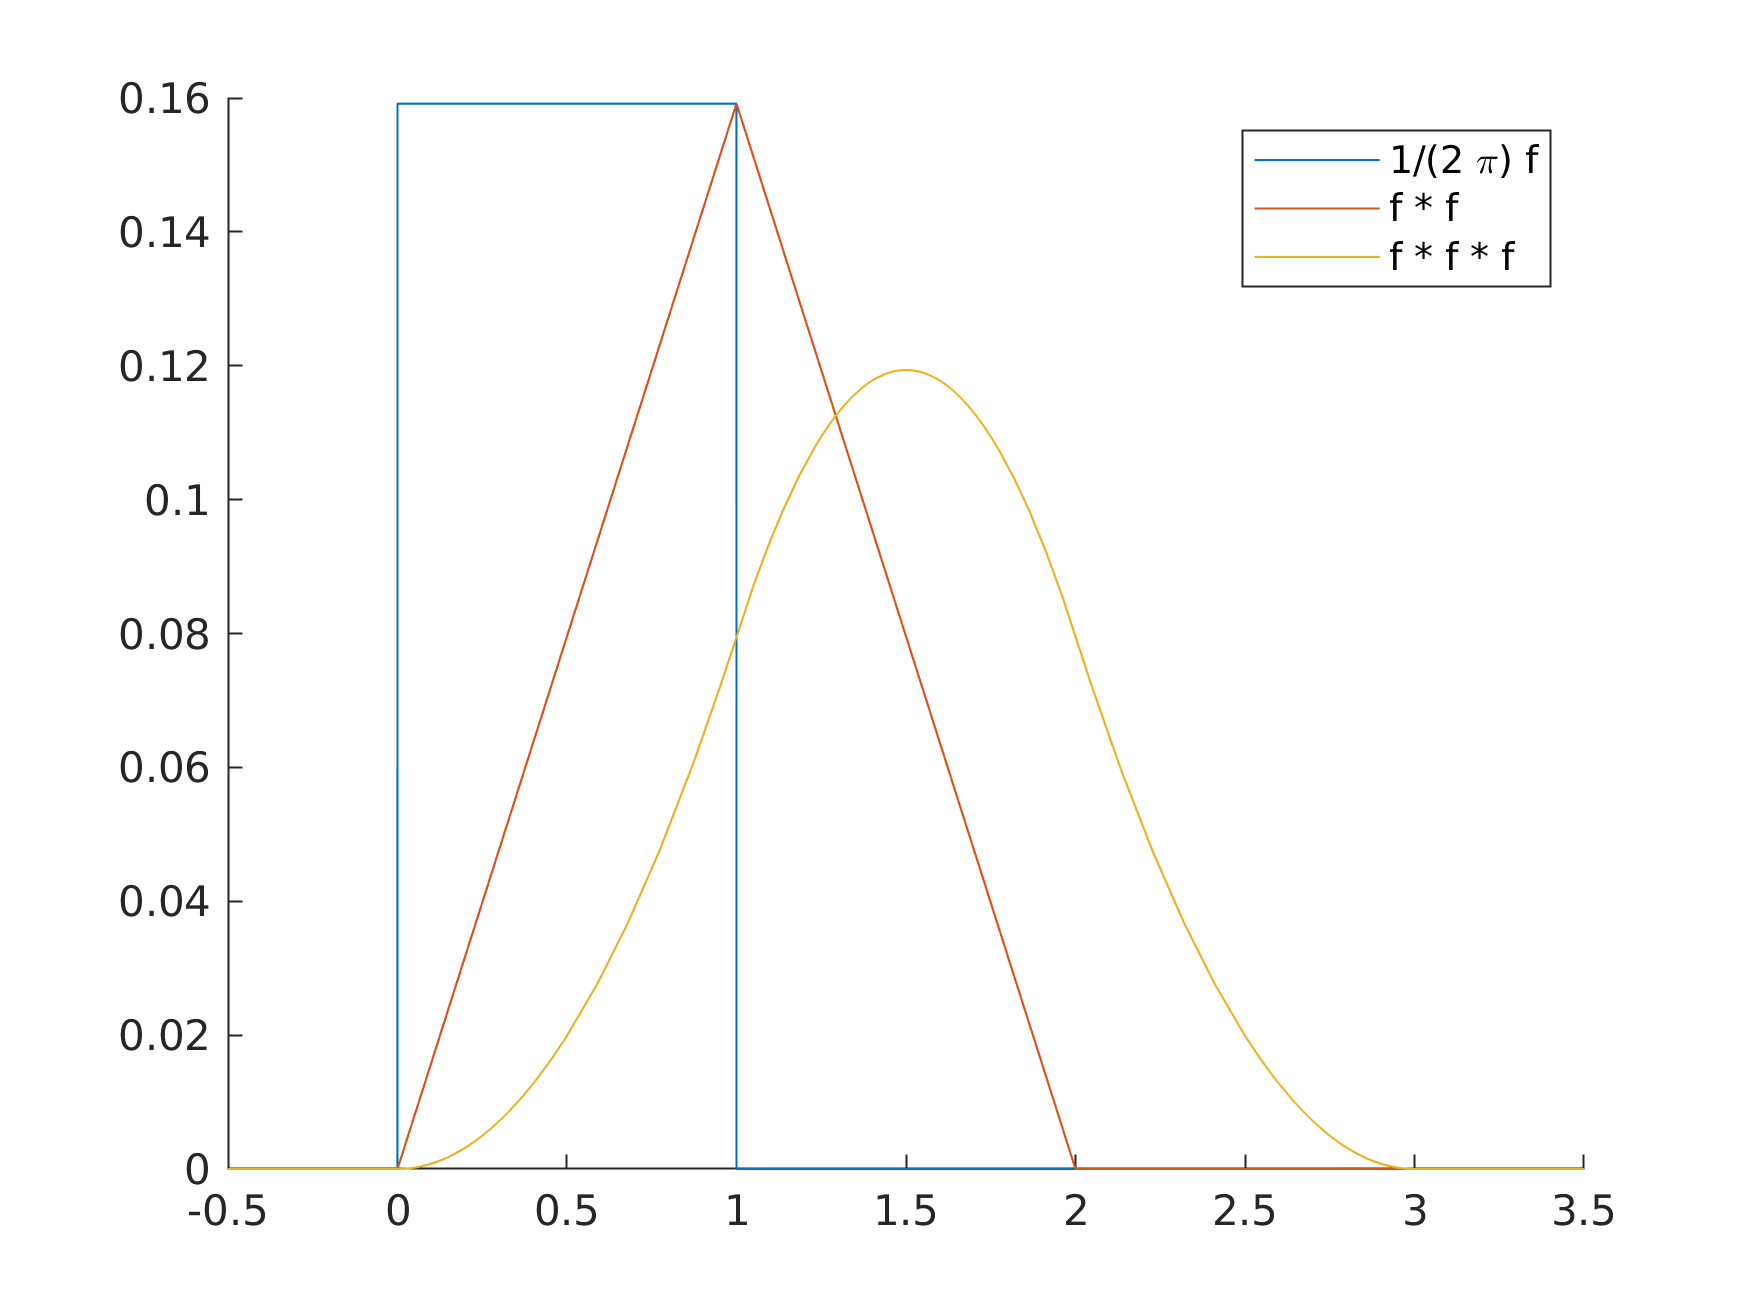
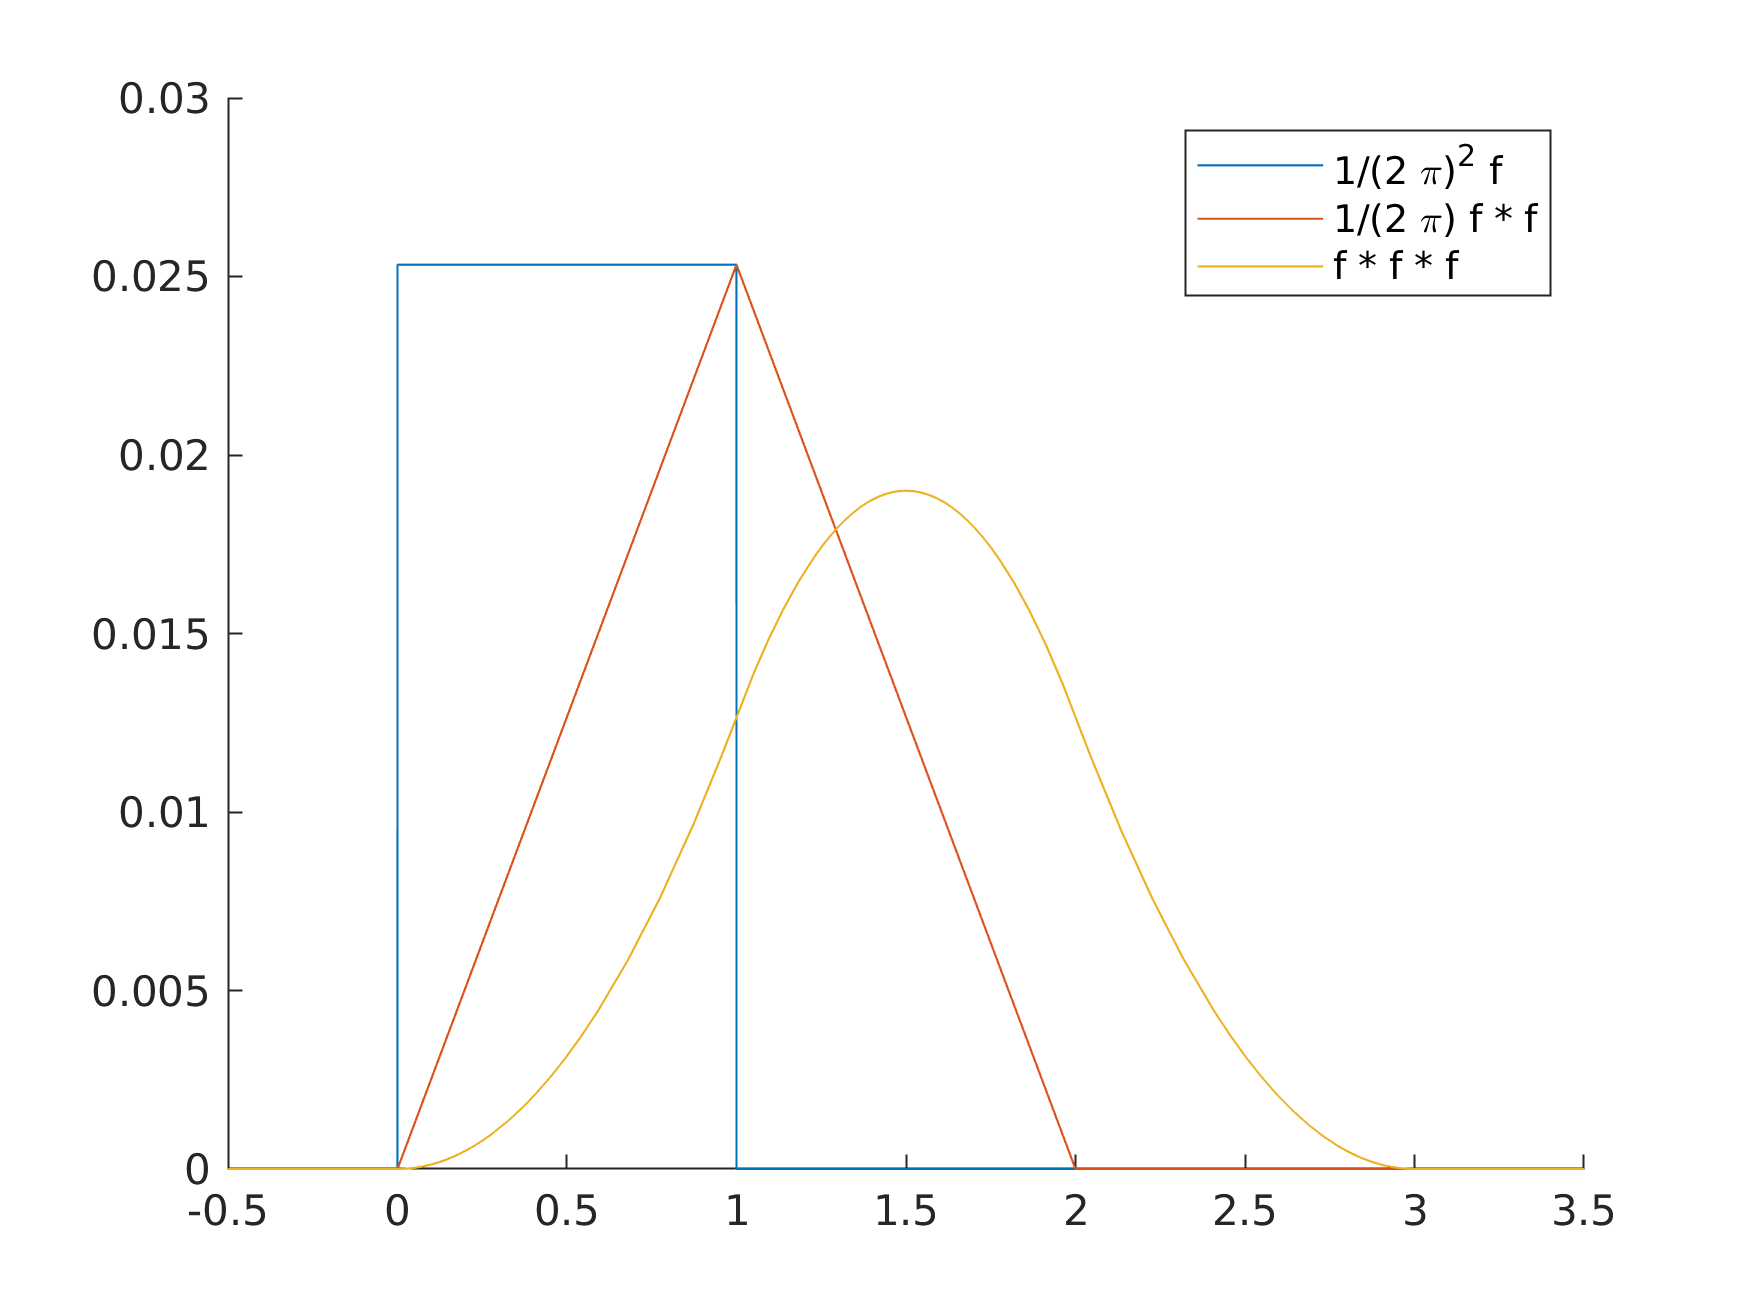
Fix errors in hw3

diff --git a/hw3/hw.tex b/hw3/hw.tex
@@ -79,10 +79,10 @@ $[0, 1] \cap [t - 1, t]$, so
 \begin{align*}
     (f * f)(t)
         &= \frac{1}{2 \pi} \int_{[0, 1] \cap [t - 1, t]} \dif y \\
-        &= \frac{1}{2 \pi} \cdot
+        &=
         \begin{dcases}
-            t, & 0 \leq t \leq 1 \\
-            2 - t, & 1 < t \leq 2 \\
+            \frac{1}{2 \pi}t, & 0 \leq t \leq 1 \\
+            \frac{1}{2 \pi} (2 - t), & 1 < t \leq 2 \\
             0, & \text{otherwise}
         \end{dcases}
         .
@@ -104,8 +104,8 @@ Now we consider a number of cases. If $0 \leq t \leq 1$ then
 %
 \begin{equation*}
     (f * f * f)(t)
-        = \frac{1}{2 \pi} \int_{0}^t x \dif x
-        = \frac{1}{4 \pi} t^2
+        = \frac{1}{(2 \pi)^2} \int_{0}^t x \dif x
+        = \frac{1}{2 (2 \pi)^2} t^2
         .
 \end{equation*}
 %
@@ -114,14 +114,14 @@ If $1 < t \leq 2$ then
 \begin{equation*}
     (f * f * f)(t)
         =
-        \frac{1}{2 \pi}
+        \frac{1}{(2 \pi)^2}
         \del{
             \int_{t - 1}^1 x \dif x
             +
             \int_{1}^t 2 - x \dif x
         }
         =
-        \frac{1}{2 \pi}
+        \frac{1}{(2 \pi)^2}
         \del{
             - t^2 + 3 t - \frac{3}{2}
         }
@@ -133,10 +133,10 @@ If $2 < t \leq 3$ then
 \begin{equation*}
     (f * f * f)(t)
         =
-        \frac{1}{2 \pi}
+        \frac{1}{(2 \pi)^2}
         \int_{t - 1}^2 2 - x \dif x
         =
-        \frac{1}{4 \pi}
+        \frac{1}{2 (2 \pi)^2}
         (t - 3)^2
         .
 \end{equation*}
@@ -147,21 +147,22 @@ Hence, to summarize we have
     (f * f * f)(t)
         =
         \begin{dcases}
-            \frac{1}{4 \pi} t^2, & 0 \leq t \leq 1 \\
-            \frac{1}{2 \pi}
+            \frac{1}{8 \pi^2} t^2, & 0 \leq t \leq 1 \\
+            \frac{1}{4 \pi^2}
             \del{
                 - t^2 + 3 t - \frac{3}{2}
             }, & 1 < t \leq 2 \\
-            \frac{1}{4 \pi}
+            \frac{1}{8 \pi^2}
             (t - 3)^2, & 2 < t \leq 3 \\
             0, & \text{otherwise}
         \end{dcases}
         .
 \end{equation*}
 %
-We plot $f$ (scaled by $1 / 2 \pi$), $f * f$, and $f * f * f$ in Figure~\ref{fig:4-8}. We can
-see that convolutions add smoothness in this case. The code to produce
-this plot is available in Listing~\ref{lst:1}.
+We plot $f$ (scaled by $1 / (2 \pi)^2$), $f * f$ (scaled by
+$1 / 2 \pi$), and $f * f * f$ in Figure~\ref{fig:4-8}. We can see that
+convolutions add smoothness in this case. The code to produce this plot
+is available in Listing~\ref{lst:1}.
 
 \begin{figure}[!ht]
     \includegraphics[width=5in]{q48}
@@ -379,6 +380,7 @@ $x \in \R$
 \begin{equation}
     \sin^2(x) \leq 1
     \label{eq:431a}
+    .
 \end{equation}
 %
 The second fact is that for all $\theta \in [\delta, \pi]$,

diff --git a/hw3/code/q48.m b/hw3/code/q48.m
@@ -4,20 +4,20 @@ syms t;
 
 p0 = piecewise( ...
     t < 0, 0, ...
-    0 <= t <= 1, 1/(2*pi), ...
+    0 <= t <= 1, 1/(4*pi^2), ...
     t > 1, 0 ...
 );
 p1 = piecewise( ...
     t < 0, 0, ...
-    0 <= t <= 1, 1/(2*pi)*t, ...
-    1 < t <= 2, 1/(2*pi)*(2 - t), ...
+    0 <= t <= 1, 1/(2*pi)^2*t, ...
+    1 < t <= 2, 1/(2*pi)^2*(2 - t), ...
     t > 2, 0 ...
 );
 p2 = piecewise( ...
     t < 0, 0, ...
-    0 <= t <= 1, 1/(4*pi)*t^2, ...
-    1 < t <= 2, 1/(2*pi)*(-t^2 + 3*t -3/2), ...
-    2 < t <= 3, 1/(4*pi)*(t - 3)^2, ...
+    0 <= t <= 1, 1/(8*pi^2)*t^2, ...
+    1 < t <= 2, 1/(4*pi^2)*(-t^2 + 3*t -3/2), ...
+    2 < t <= 3, 1/(8*pi^2)*(t - 3)^2, ...
     t > 3, 0 ...
 );
 
@@ -31,7 +31,7 @@ fplot(p2);
 
 hold off;
 
-legend(["1/(2 \pi) f", "f * f", "f * f * f"]);
+legend(["1/(2 \pi)^2 f", "1/(2 \pi) f * f", "f * f * f"]);
 xlim([-0.5, 3.5]);
 
 print -dpng ../img/q48.png -r300
